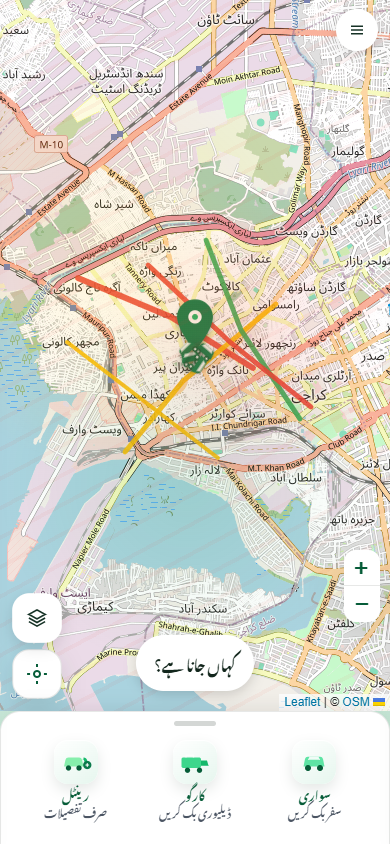
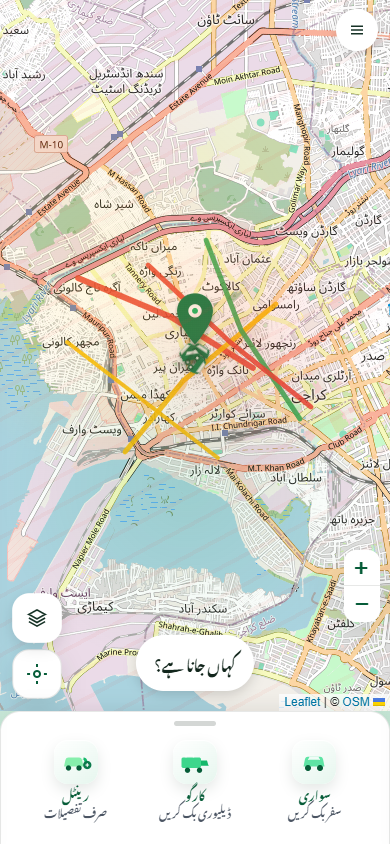
fix(apps): keep driver on partner when switching language
Stop owner app from overwriting driver role, reconcile mis-tagged roles on partner URL, and harden lang button clicks so apps do not cross-navigate.

Changed region(s): [[0.4615, 0.3389, 0.5538, 0.4621]]

diff --git a/driver-app/js/driver-app.js b/driver-app/js/driver-app.js
@@ -371,6 +371,34 @@ function recoverEntrySurfaceIfBlank(sequence, message = "") {
   showAuthOverlay(message || "سیشن مکمل نہیں ہوا — دوبارہ لاگ اِن کریں۔");
 }
 
+function markDriverAppSurface() {
+  try {
+    sessionStorage.setItem("swiftgo_app_surface", "partner");
+  } catch {
+    /* ignore */
+  }
+}
+
+/** On /partner/: real fleet owners go to Owner app; mis-tagged drivers without fleet stay here. */
+async function reconcileOwnerRoleOnDriverApp(uid, partner) {
+  if (partner?.role !== "owner") return partner;
+  const { db } = getFirebase();
+  if (!db) return partner;
+  const fleetSnap = await getDocs(
+    query(collection(db, "vehicles"), where("ownerId", "==", uid), limit(1))
+  );
+  if (!fleetSnap.empty) {
+    window.location.replace("/owner/");
+    return null;
+  }
+  await setDoc(
+    doc(db, "partners", uid),
+    { role: "driver", updatedAt: serverTimestamp() },
+    { merge: true }
+  );
+  return { ...partner, role: "driver" };
+}
+
 async function activateAuthenticatedDriver(user) {
   const sequence = ++authSequence;
   setLoginBusy(true);
@@ -425,12 +453,8 @@ async function activateAuthenticatedDriver(user) {
       return;
     }
 
-    // Fleet owners use /owner/ only — no in-app owner mode.
-    if (partner.role === "owner") {
-      window.location.replace("/owner/");
-      return;
-    }
-
+    partner = await reconcileOwnerRoleOnDriverApp(user.uid, partner);
+    if (partner === null || isStaleAuthSequence(sequence)) return;
     // Legacy God Mode / mode-switch roles → normalize to driver.
     if (partner.role === "admin_driver") {
       try {
@@ -601,13 +625,12 @@ function startPartnerDocListener(uid, sequence) {
       if (partnerAccountBlocked) {
         partnerAccountBlocked = false;
         hideAccountBlockedOverlay();
-        // Resume with same sequence — do NOT call activateAuthenticatedDriver
-        // (that bumps authSequence and cancels in-flight routeDriver → blank screen).
-        if (partner?.role === "owner") {
-          window.location.replace("/owner/");
-          return;
-        }
-        void routeDriver(partner?.currentVehicleId || null, authSequence, partner || {});
+        void reconcileOwnerRoleOnDriverApp(uid, partner).then((reconciled) => {
+          if (isStaleAuthSequence(sequence)) return;
+          if (reconciled === null) return;
+          void routeDriver(reconciled?.currentVehicleId || null, authSequence, reconciled || {});
+        });
+        return;
       }
     },
     (error) => {
@@ -2243,6 +2266,7 @@ async function handleRadarRideAccepted(result) {
 
 function boot() {
   try {
+    markDriverAppSurface();
     applyReducedMotionClass();
     initKeyboardInset();
     initI18n();

diff --git a/owner-app/js/owner-app.js b/owner-app/js/owner-app.js
@@ -312,9 +312,15 @@ async function activateAuthenticatedDriver(user) {
       return;
     }
 
-    // This URL is the owner app — always stay here as owner (no bounce to driver).
+    // Owner app URL: never steal a driver account by overwriting role to owner.
     const existing = partnerSnapshot.exists() ? partnerSnapshot.data() : {};
-    if (existing.role !== "owner") {
+
+    if (existing.role === "driver") {
+      window.location.replace("/partner/");
+      return;
+    }
+
+    if (!partnerSnapshot.exists() || !existing.role) {
       await setDoc(
         doc(db, "partners", user.uid),
         {
@@ -1987,6 +1993,11 @@ async function resolveActiveRequest(nextStatus) {
 }
 
 function boot() {
+  try {
+    sessionStorage.setItem("swiftgo_app_surface", "owner");
+  } catch {
+    /* ignore */
+  }
   applyReducedMotionClass();
   initKeyboardInset();
   initI18n();

diff --git a/driver-app/js/i18n.js b/driver-app/js/i18n.js
@@ -155,10 +155,24 @@ export function initI18n() {
   applyDocumentDirection(state.lang);
   applyTranslations();
   syncLangButtons();
-  document.querySelectorAll("[data-lang]").forEach((btn) => {
-    btn.addEventListener("click", () => {
+  bindLangSwitchClicks();
+}
+
+let langSwitchBound = false;
+
+function bindLangSwitchClicks() {
+  if (langSwitchBound) return;
+  langSwitchBound = true;
+  document.addEventListener(
+    "click",
+    (event) => {
+      const btn = event.target?.closest?.("[data-lang]");
+      if (!btn || btn.tagName !== "BUTTON") return;
+      event.preventDefault();
+      event.stopPropagation();
       const lang = btn.getAttribute("data-lang");
       if (lang === "en" || lang === "ur") setLang(lang);
-    });
-  });
+    },
+    true
+  );
 }

diff --git a/owner-app/js/i18n.js b/owner-app/js/i18n.js
@@ -115,10 +115,24 @@ export function initI18n() {
   applyDocumentDirection(state.lang);
   applyTranslations();
   syncLangButtons();
-  document.querySelectorAll("[data-lang]").forEach((btn) => {
-    btn.addEventListener("click", () => {
+  bindLangSwitchClicks();
+}
+
+let langSwitchBound = false;
+
+function bindLangSwitchClicks() {
+  if (langSwitchBound) return;
+  langSwitchBound = true;
+  document.addEventListener(
+    "click",
+    (event) => {
+      const btn = event.target?.closest?.("[data-lang]");
+      if (!btn || btn.tagName !== "BUTTON") return;
+      event.preventDefault();
+      event.stopPropagation();
       const lang = btn.getAttribute("data-lang");
       if (lang === "en" || lang === "ur") setLang(lang);
-    });
-  });
+    },
+    true
+  );
 }

diff --git a/customer-app/js/app.js b/customer-app/js/app.js
@@ -282,7 +282,9 @@ function bindEvents() {
   });
 
   document.querySelectorAll("[data-lang]").forEach((btn) => {
-    btn.addEventListener("click", () => {
+    btn.addEventListener("click", (event) => {
+      event.preventDefault();
+      event.stopPropagation();
       const lang = btn.getAttribute("data-lang");
       if (lang === "en" || lang === "ur") {
         setLang(lang);

diff --git a/driver-app/index.html b/driver-app/index.html
@@ -469,6 +469,6 @@
 
   <p class="driver-toast" id="driverToast" role="status" aria-live="polite" hidden></p>
 
-  <script type="module" src="js/driver-app.js?v=driver_home_1"></script>
+  <script type="module" src="js/driver-app.js?v=app_surface_fix_1"></script>
 </body>
 </html>

diff --git a/owner-app/index.html b/owner-app/index.html
@@ -194,6 +194,6 @@
     </section>
   </div>
 
-  <script type="module" src="js/owner-app.js?v=owner_stay_001"></script>
+  <script type="module" src="js/owner-app.js?v=app_surface_fix_1"></script>
 </body>
 </html>
